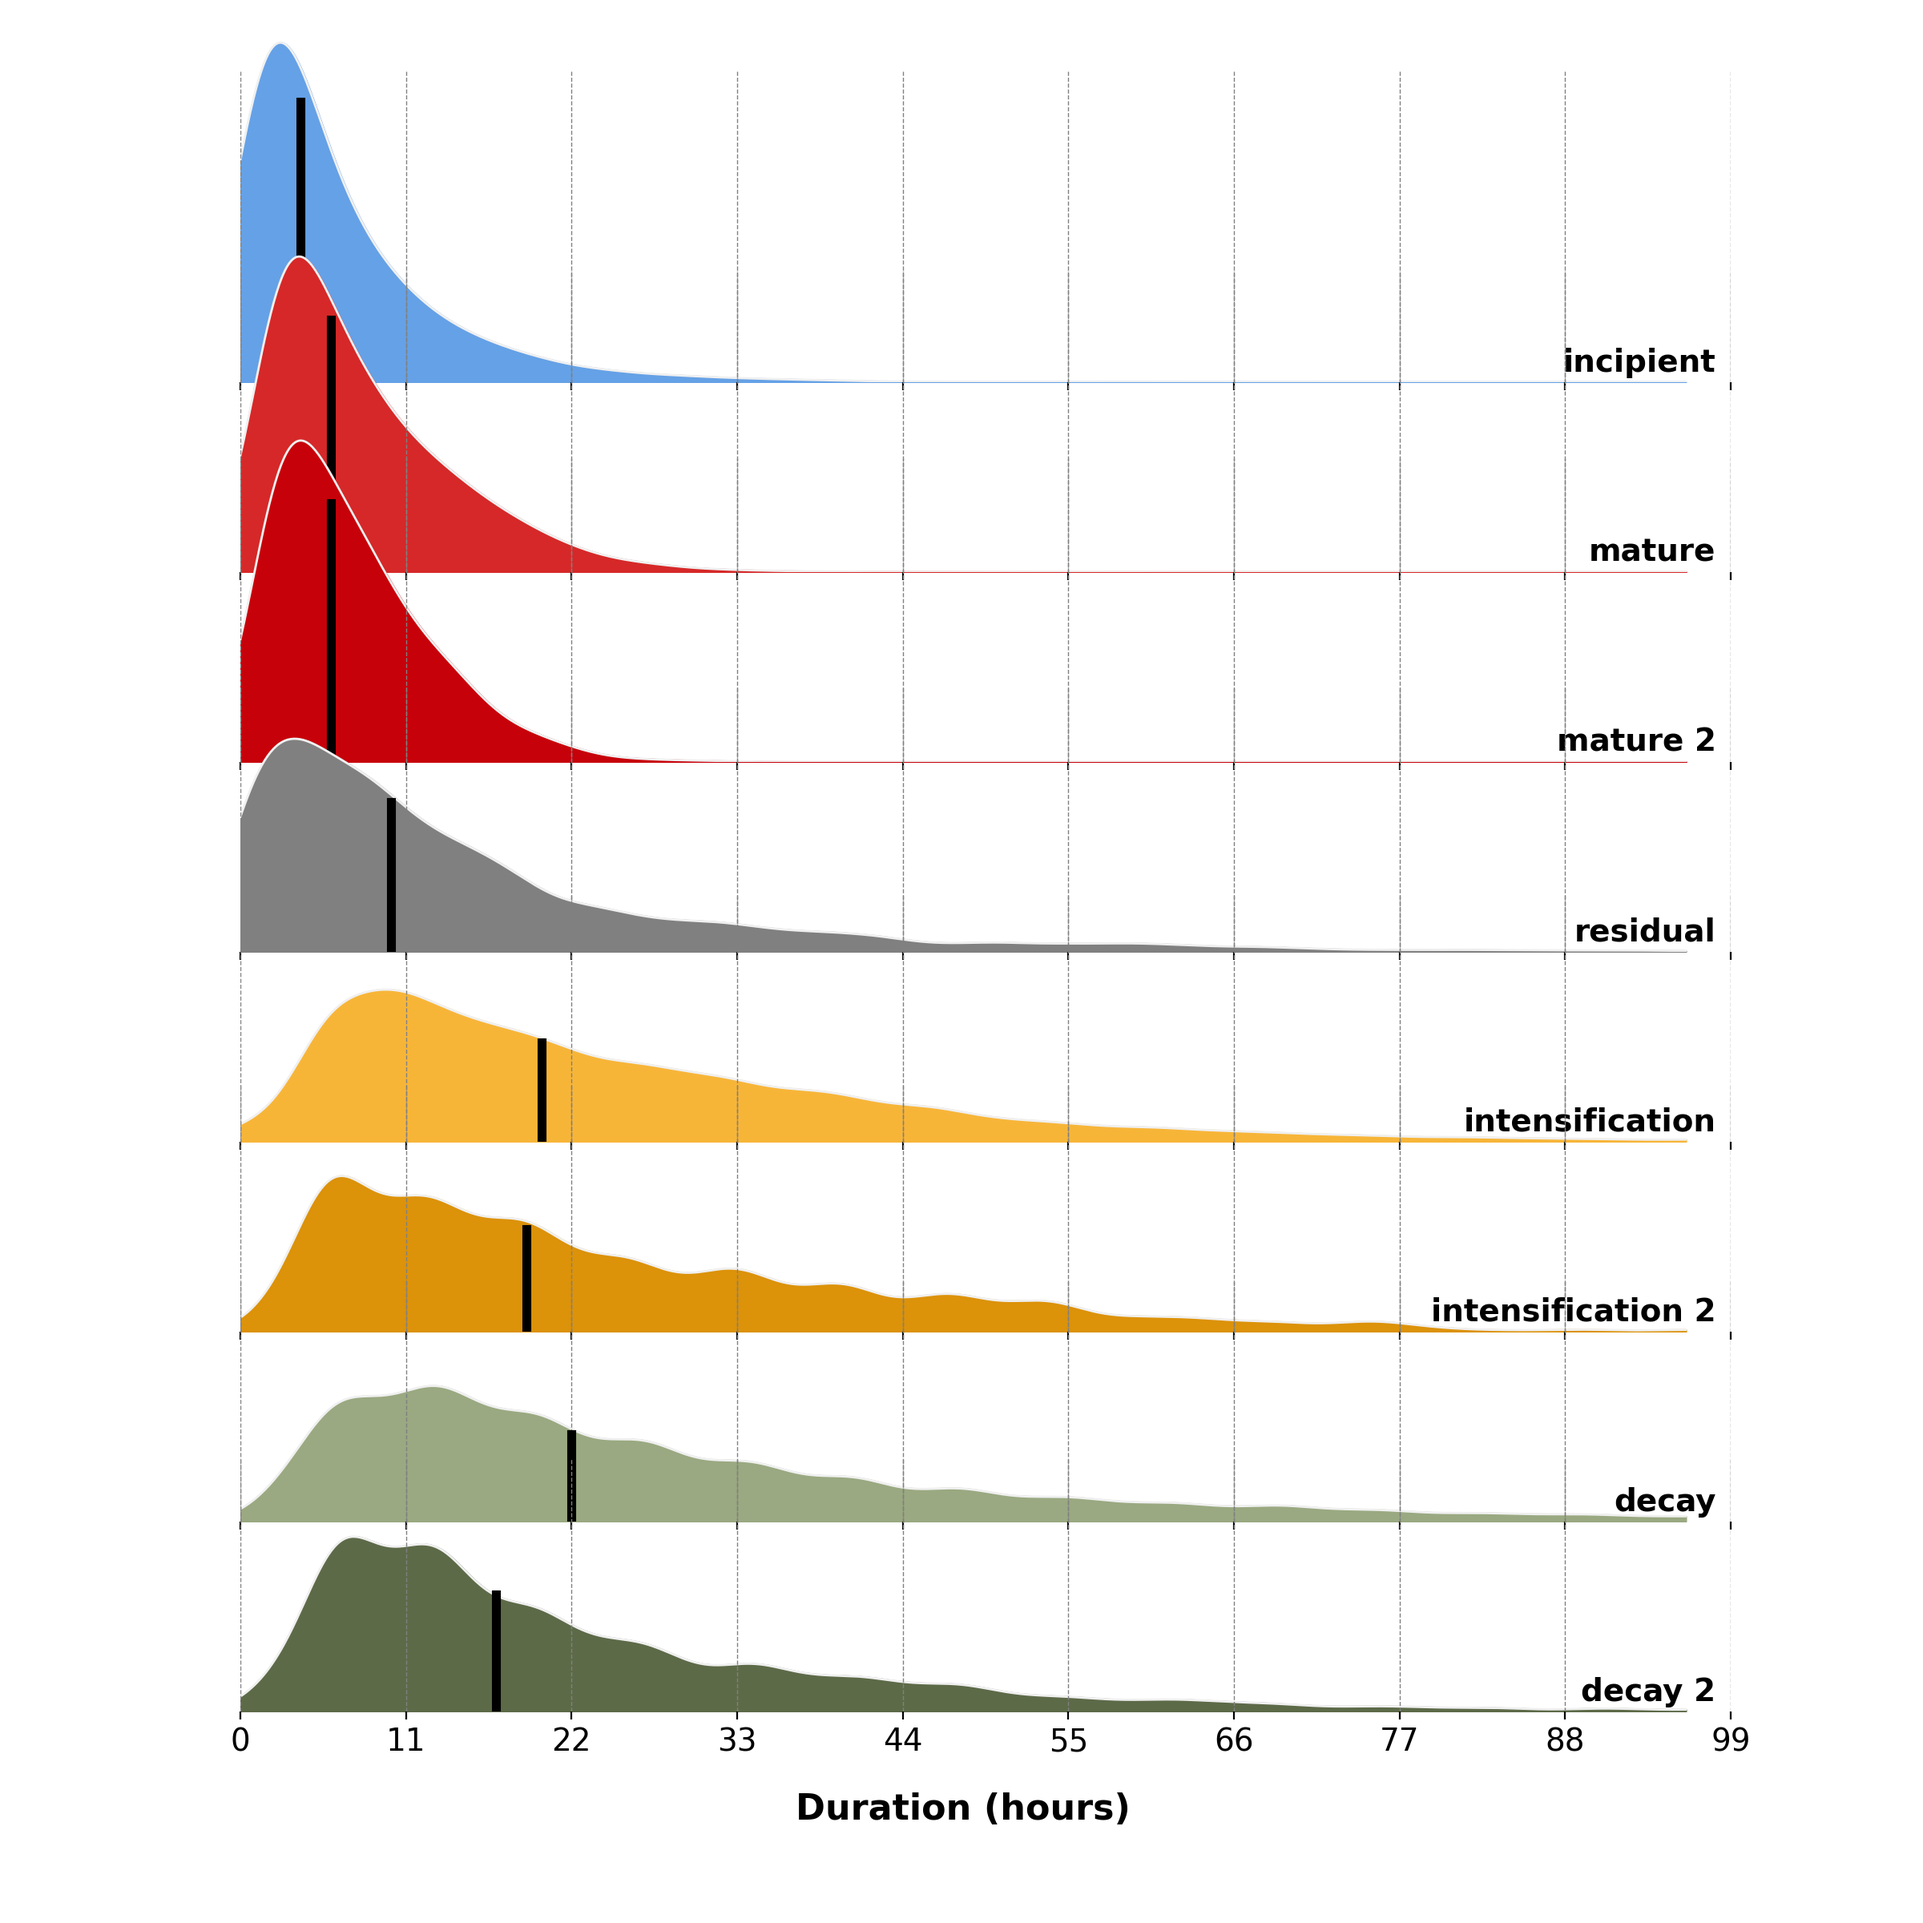
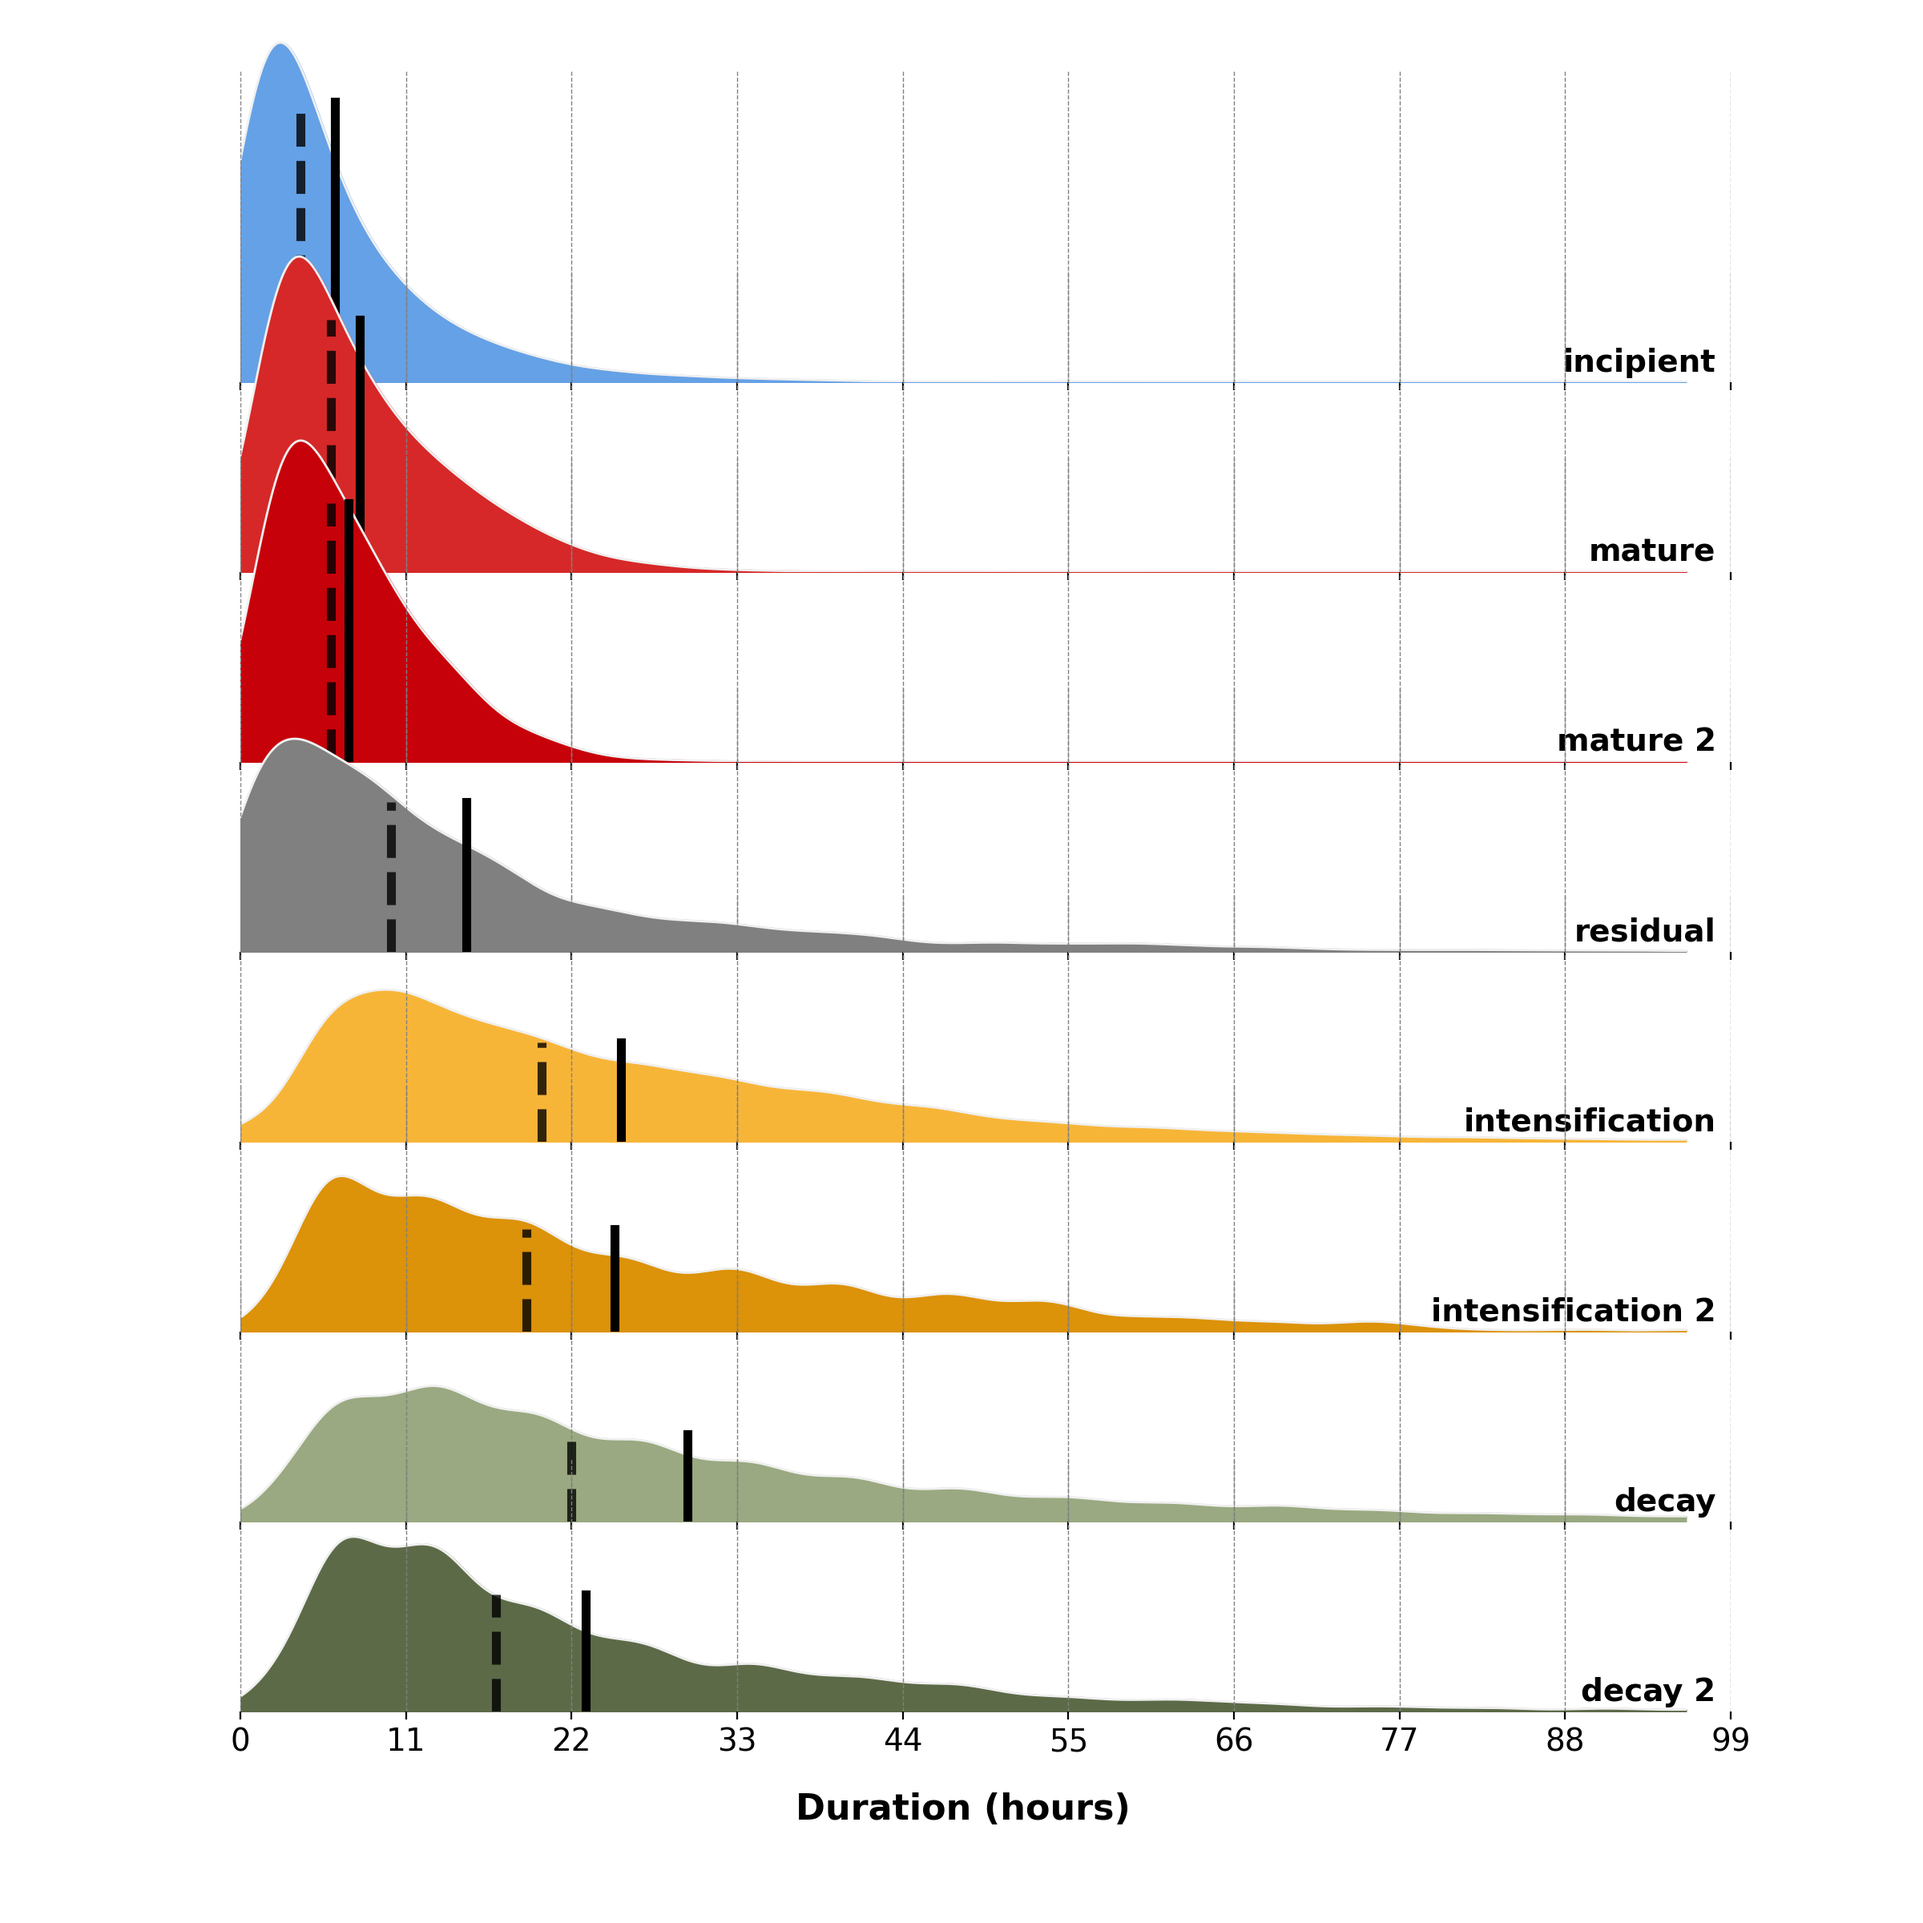
added mean value

diff --git a/src_manuscript_life-cycle/pdf_phase_time.py b/src_manuscript_life-cycle/pdf_phase_time.py
@@ -277,15 +277,20 @@ def plot_ridge_phases(data):
             ax.axvline(x=grid_x, ymin=0, ymax=y_limit, color='grey', linestyle='--', linewidth=0.5)
 
         # Calculate the mean of the data for the current region
+        mean_value = np.mean(x)
         meadian_value = np.median(x)
 
         # Draw a vertical line at the mean value
         max_kde_value = np.exp(logprob).max()
         ymax_fraction = 2.8
         ymax_value = max_kde_value * ymax_fraction
+        
+        ax.axvline(x=mean_value, ymin=0, ymax=ymax_value,
+                        color='k', linestyle='-', linewidth=4, label="Mean")
         ax.axvline(x=meadian_value, ymin=0, ymax=ymax_value,
-                        color='k', linestyle='-', linewidth=4, label="Median")
-        print(f"Median value for {phase}: {meadian_value}")
+                        color='k', linestyle='--', linewidth=4, alpha=0.8, label="Median")
+        
+        print(f"Mean value for {phase}: {mean_value}, median: {meadian_value}")
 
         spines = ["top", "right", "left", "bottom"]
         for s in spines:
